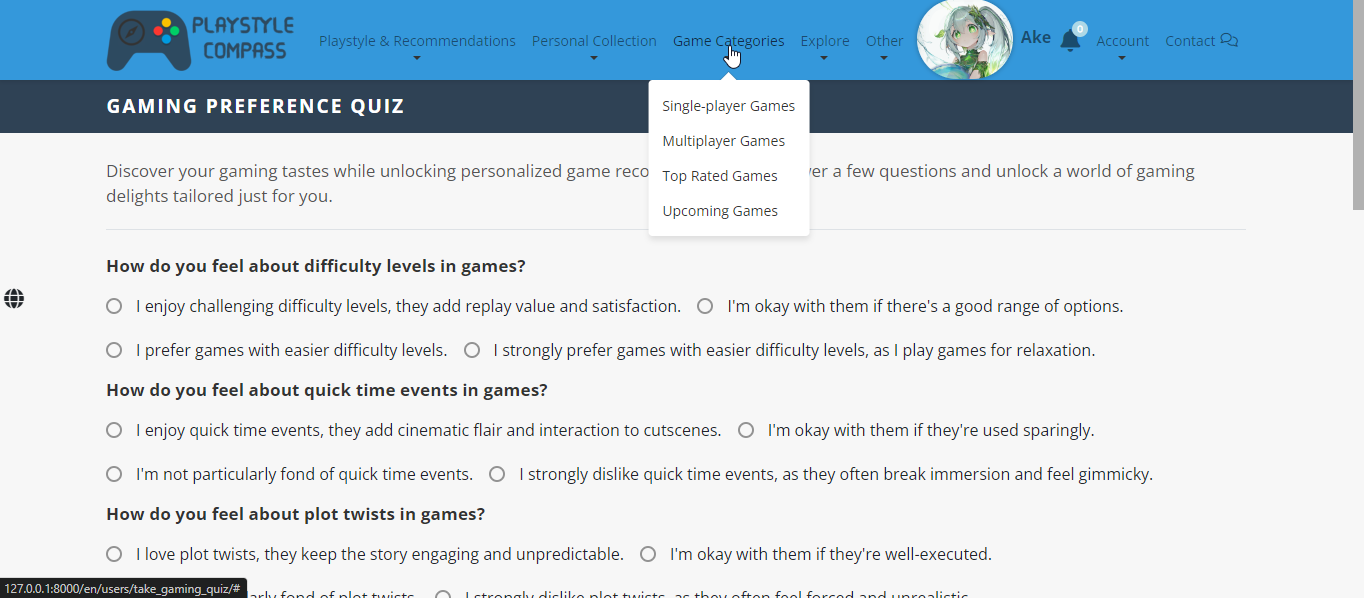
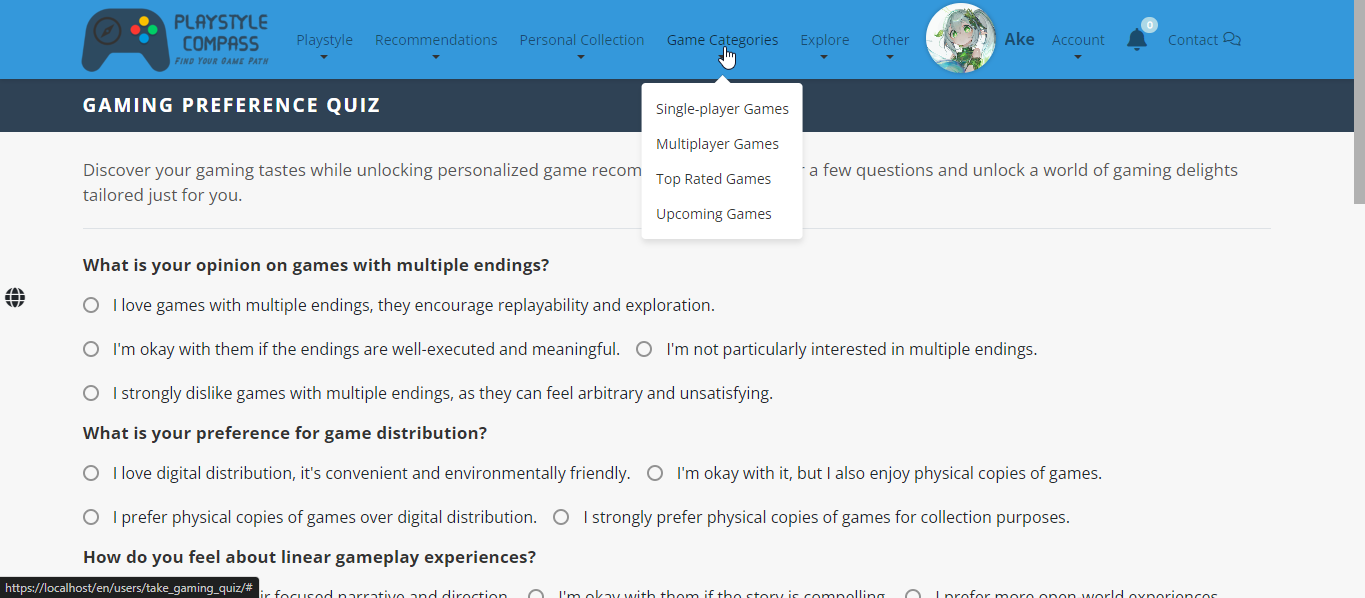
Updated navbar / base CSS / updated project preview images / updated translations.

diff --git a/src/templates/base.html b/src/templates/base.html
@@ -38,7 +38,7 @@
         {% if user.is_authenticated %}
         <li class="nav-item dropdown">
           <a class="nav-link dropdown-toggle" href="#" id="navItemDropdown" role="button" data-toggle="dropdown">
-              {% trans "Playstyle & Recommendations" %}
+              {% trans "Playstyle" %}
           </a>
           <div class="dropdown-menu navbar-dropdown">
             <a class="dropdown-item" href="{% url 'playstyle_compass:gaming_preferences'%}">
@@ -53,6 +53,13 @@
             <a class="dropdown-item" href="{% url 'playstyle_compass:play_histories'%}">
               {% trans "Kindred Play Histories" %}
             </a>
+          </div>
+        </li>
+        <li class="nav-item dropdown">
+          <a class="nav-link dropdown-toggle" href="#" id="navItemDropdown" role="button" data-toggle="dropdown">
+              {% trans "Recommendations" %}
+          </a>
+          <div class="dropdown-menu navbar-dropdown">
             <a class="dropdown-item" href="{% url 'playstyle_compass:get_recommendations'%}">
               {% trans "Game Recommendations" %}
             </a>
@@ -229,12 +236,16 @@
                   </a>
                   <ul class="dropdown-menu notifications-dropdown text-wrap" id="notify"></ul>
                 </li>
+                <li class="nav-item">
+              <a class="nav-link contact-us" href="{% url 'users:contact' %}">{% trans "Contact" %} <i class="fa-regular fa-comments contact-icon"></i></a>
+          </li>
             </div>
           </div>
-          {% endif %}
+          {% else %}
           <li class="nav-item">
               <a class="nav-link contact-us" href="{% url 'users:contact' %}">{% trans "Contact" %} <i class="fa-regular fa-comments contact-icon"></i></a>
           </li>
+          {% endif %}
         </ul>
       </div>
     </div>

diff --git a/static/css/base.css b/static/css/base.css
@@ -102,6 +102,10 @@ input[type="email"]:focus,
   background-image: none;
 }
 
+.navbar-brand {
+  margin-left: 5%;
+}
+
 .navbar {
   background-color: #3498db;
   border: none;
@@ -142,6 +146,7 @@ input[type="email"]:focus,
 .contact-us {
   display: flex;
   align-items: top;
+  padding-left: 10px!important;
 }
 
 .contact-icon {
@@ -150,7 +155,13 @@ input[type="email"]:focus,
 
 .container {
   flex: 1;
-  padding: 0px 0;
+  max-width: 1500px;
+  width: 90%;
+  margine: 0 auto;
+}
+
+.collapse {
+  margin-right: 100px;
 }
 
 .nav-item {
@@ -168,7 +179,6 @@ input[type="email"]:focus,
   overflow: hidden;
   object-fit: cover;
 }
-
 
 .page-header {
   color: #2c3e50;
@@ -189,10 +199,9 @@ input[type="email"]:focus,
   font-size: 19px;
   font-weight: bold;
   color: #fff;
-  margin-left: 90px;
+  margin-left: 5.1%;
   letter-spacing: 2px;
   max-width: 1139px;
-  margin: 0 auto;
 }
 
 .profile-header {
@@ -206,7 +215,6 @@ input[type="email"]:focus,
   font-size: 19px;
   font-weight: bold;
   color: #fff;
-  margin-left: 90px;
   letter-spacing: 2px;
   max-width: 1139px;
   margin: 0 auto;

diff --git a/static/css/playstyle_compass/index.css b/static/css/playstyle_compass/index.css
@@ -1,11 +1,10 @@
 .jumbotron {
-  color: fff;
-  padding-top: 15px;
-  padding-bottom: 20px;
-  padding-left: 105px;
-  padding-right: 105px;
-  margin-bottom: 0px;
   width: 100%;
+  margin-bottom: 0px;
+  padding-right: 5.5%;
+  padding-top: 25px;
+  padding-bottom: 30px;
+  margin-bottom: 0px;
 }
 
 .jumbotron h1 {
